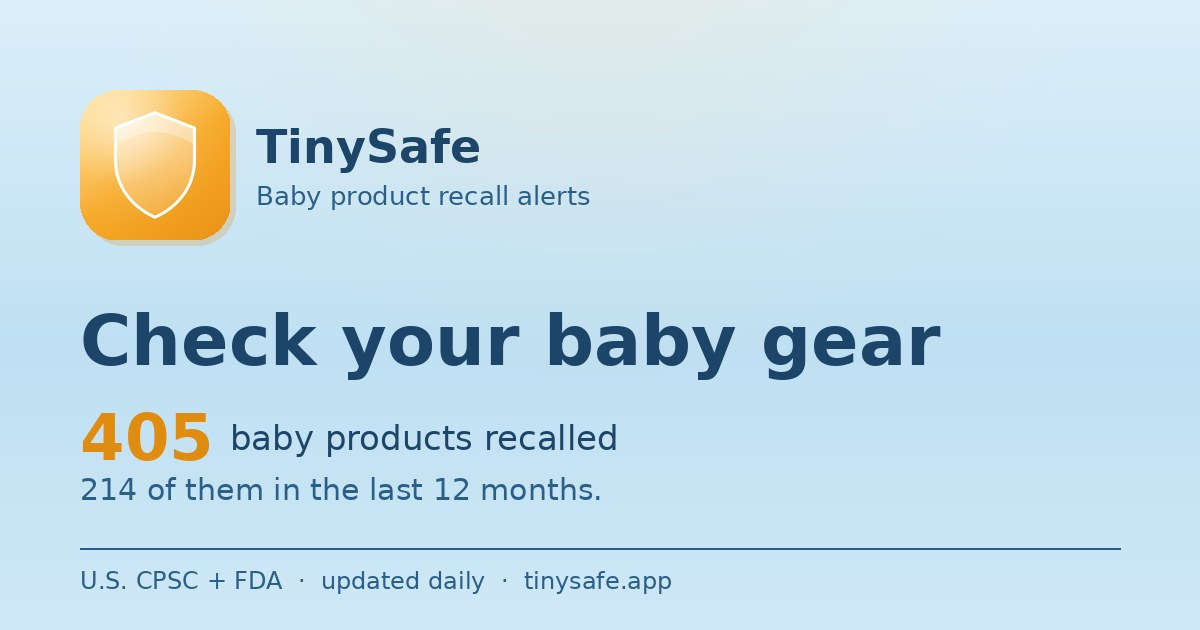
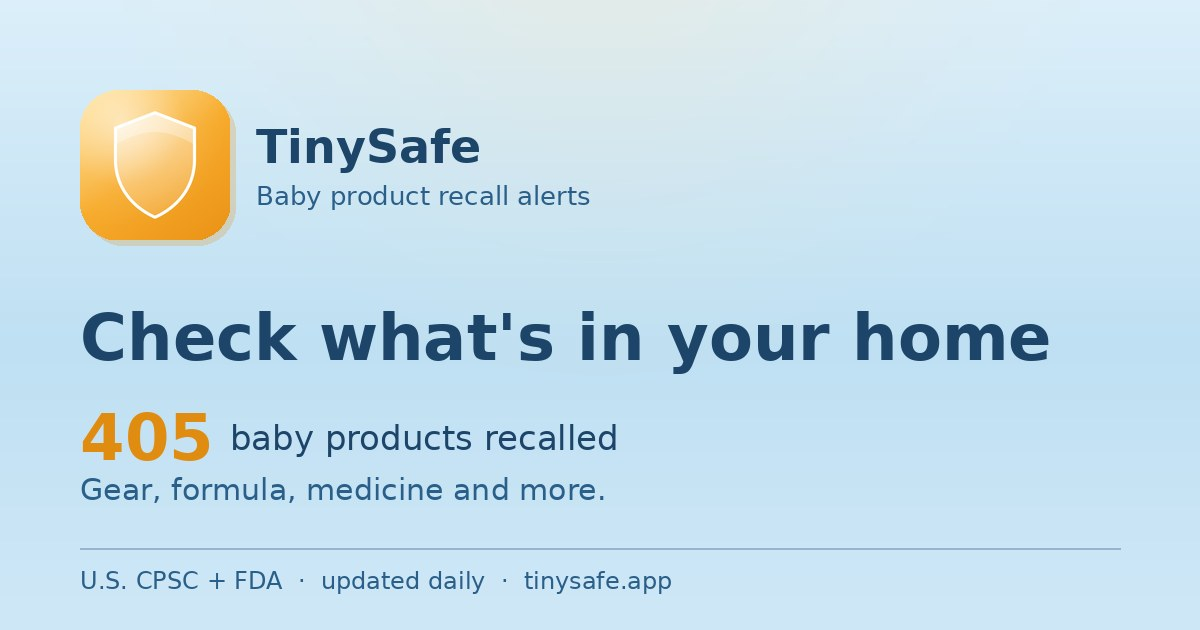
Fix /check scope wording: 'baby gear' understated what the page covers
The page now includes FDA feeding & care records — infant formula (23),
children's medicine (11), wipes, lotion and sunscreen — none of which are gear.
Calling the whole thing 'baby gear' misdescribed the scope in the title, meta
description, OG card and the OG image itself.

- title / description / og / twitter copy now say what it is: gear, formula,
  baby food, medicine.
- og.jpg regenerated: headline reads 'Check what's in your home' with
  '405 baby products recalled — gear, formula, medicine and more'.
- App icon confirmed identical to the one already in use (pixel diff 0).

Changed region(s): [[0.0617, 0.4825, 0.8942, 0.6032], [0.0617, 0.754, 0.4933, 0.8143], [0.0925, 0.8444, 0.925, 0.8746]]

diff --git a/check/index.html b/check/index.html
@@ -3,8 +3,8 @@
 <head>
 <meta charset="utf-8">
 <meta name="viewport" content="width=device-width, initial-scale=1, viewport-fit=cover">
-<title>Check your baby gear — TinySafe</title>
-<meta name="description" content="Pick the baby gear you use. We'll email you the moment something in that category is recalled.">
+<title>Check what's in your home — TinySafe</title>
+<meta name="description" content="Pick what you use — gear, formula, baby food, medicine. We'll email you the moment something in that category is recalled.">
 <meta name="robots" content="noindex">
 <link rel="canonical" href="https://tinysafe.app/check">
 
@@ -13,16 +13,16 @@
      few hundred KB or platforms silently fall back to a blank grey box. -->
 <meta property="og:type" content="website">
 <meta property="og:url" content="https://tinysafe.app/check">
-<meta property="og:title" content="Is your baby gear on the recall list?">
-<meta property="og:description" content="405 baby products have been recalled — 214 in the last 12 months. Pick what's in your home and get an email the moment something in that category is recalled.">
+<meta property="og:title" content="405 baby products have been recalled">
+<meta property="og:description" content="214 of them in the last 12 months — loungers, cribs and high chairs, plus formula, baby food and children's medicine. Pick what's in your home and get an email the moment something in that category is recalled.">
 <meta property="og:image" content="https://tinysafe.app/check/og.jpg">
 <meta property="og:image:width" content="1200">
 <meta property="og:image:height" content="630">
-<meta property="og:image:alt" content="TinySafe — 405 baby products recalled, 214 in the last 12 months">
+<meta property="og:image:alt" content="TinySafe — check what's in your home. 405 baby products recalled: gear, formula, medicine and more">
 <meta property="og:site_name" content="TinySafe">
 <meta name="twitter:card" content="summary_large_image">
-<meta name="twitter:title" content="Is your baby gear on the recall list?">
-<meta name="twitter:description" content="405 baby products have been recalled — 214 in the last 12 months. Check what's in your home.">
+<meta name="twitter:title" content="405 baby products have been recalled">
+<meta name="twitter:description" content="214 of them in the last 12 months — gear, formula, medicine and more. Check what's in your home.">
 <meta name="twitter:image" content="https://tinysafe.app/check/og.jpg">
 <style>
 :root{